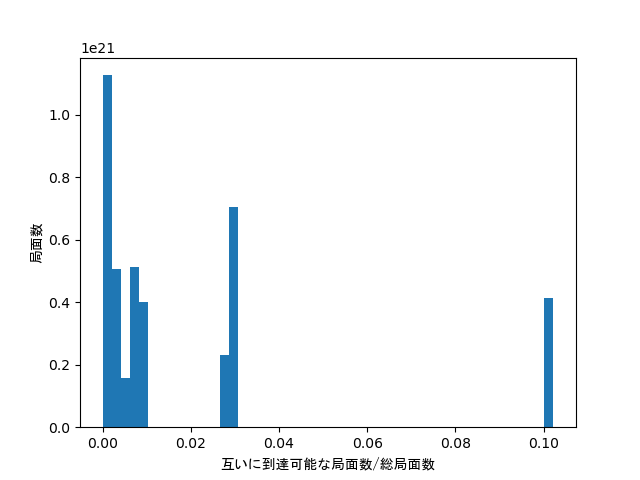
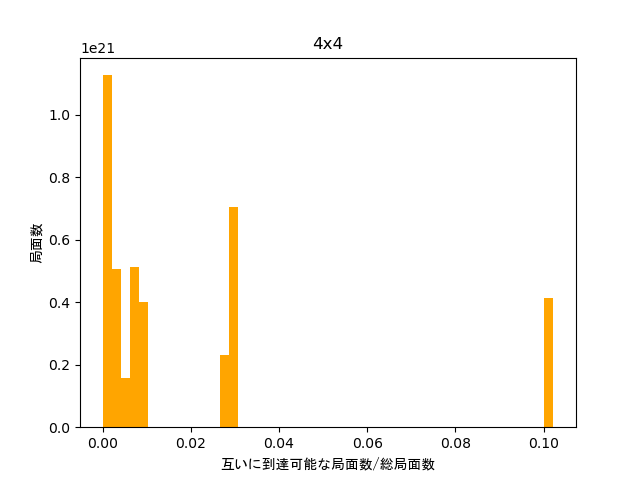
グラフの色を変更。統計情報の追加

diff --git a/python/possible_mutual_transition_phase.py b/python/possible_mutual_transition_phase.py
@@ -10,7 +10,7 @@ import matplotlib.pyplot as plt
 import math
 
 
-def main(s,f):
+def main(s,f, color=None, title=None):
     parent_parent = Path(__file__).resolve().parent.parent
     data = pd.read_csv(
         parent_parent.joinpath(Path(f"output/possible_transition_phase_p_{s}.csv")),
@@ -30,16 +30,35 @@ def main(s,f):
         index=False,
     )
 
-    print(f"possible_transition_phase_p_{s} count/sum(count)")
+    mn = min(df2)
+    mx = max(df2)
+    cnt = sum(df)
+    mean = sum([df2[i] * df[i] / cnt for i in range(len(df2))])
+    std = math.sqrt(
+        sum([(df2[i] - mean) ** 2 * df[i] / cnt for i in range(len(df2))])
+    )
+    crr = pd.Series(np.array([i/mx for i in df2],dtype=np.float64)).corr(pd.Series(np.array(df),dtype=np.float64))
+
+    print(f"possible_mutual_transition_phase_p_{s}")
     print()
-    print(df2.describe())
+    print("count", str(cnt).rjust(42))
+    print("mean", str(mean).rjust(43))
+    print("std", str(std).rjust(44))
+    print("min", str(mn).rjust(44))
+    print("max", str(mx).rjust(44))
+    print("corr", str(crr).rjust(43))
+
+    if title is not None:
+        plt.title(title)
+    else:
+        plt.title(s)
 
     plt.xlabel("互いに到達可能な局面数/総局面数", fontname="MS Gothic")
     plt.ylabel("局面数", fontname="MS Gothic")
-
+    
     if not f:
         plt.yscale("log")
-    plt.hist(df2, bins=50, weights=df)
+    plt.hist(df2, bins=50, weights=df, color=color)
 
     if not f:
         plt.savefig(parent_parent.joinpath(Path(f"output/possible_mutual_transition_phase_log_{s}.png")))
@@ -49,9 +68,9 @@ def main(s,f):
 
 
 if __name__ == "__main__":
-    main("3",True)
-    main("3",False)
-    main("4",True)
-    main("4",False)
+    main("3",True, color=None, title="3x3")
+    main("3",False, color=None, title="3x3")
+    main("4",True, color="orange", title="4x4")
+    main("4",False, color="orange", title="4x4")
     main("5_3_2",True)
     main("5_3_2",False)

diff --git a/python/possible_directional_transition_phase.py b/python/possible_directional_transition_phase.py
@@ -10,7 +10,7 @@ import matplotlib.pyplot as plt
 import math
 
 
-def main(s, f):
+def main(s, f, color=None, title=None):
     parent_parent = Path(__file__).resolve().parent.parent
     data = pd.read_csv(
         parent_parent.joinpath(Path(f"output/possible_transition_phase_p_{s}.csv")),
@@ -36,17 +36,36 @@ def main(s, f):
         ),
         index=False,
     )
+    
+    mn = min(df2)
+    mx = max(df2)
+    cnt = sum(df)
+    mean = sum([df2[i] * df[i] / cnt for i in range(len(df2))])
+    std = math.sqrt(
+        sum([(df2[i] - mean) ** 2 * df[i] / cnt for i in range(len(df2))])
+    )
+    crr = pd.Series(np.array([i/mx for i in df2],dtype=np.float64)).corr(pd.Series(np.array(df),dtype=np.float64))
 
-    print(f"possible_transition_phase_p_{s} proportion-count/sum(count)")
+    print(f"possible_directional_transition_phase_p_{s}")
     print()
-    print(df2.describe())
+    print("count", str(cnt).rjust(42))
+    print("mean", str(mean).rjust(43))
+    print("std", str(std).rjust(44))
+    print("min", str(mn).rjust(44))
+    print("max", str(mx).rjust(44))
+    print("corr", str(crr).rjust(43))
+
+    if title is not None:
+        plt.title(title)
+    else:
+        plt.title(s)
 
     plt.xlabel("戻ってこれないが到達可能な局面数/総局面数", fontname="MS Gothic")
     plt.ylabel("局面数", fontname="MS Gothic")
 
     if not f:
         plt.yscale("log")
-    plt.hist(df2, bins=50, weights=df)
+    plt.hist(df2, bins=50, weights=df, color=color)
 
     if not f:
         plt.savefig(
@@ -64,9 +83,9 @@ def main(s, f):
 
 
 if __name__ == "__main__":
-    main("3", True)
-    main("3", False)
-    main("4", True)
-    main("4", False)
+    main("3", True, color=None, title="3x3")
+    main("3", False, color=None, title="3x3")
+    main("4", True, color="orange", title="4x4")
+    main("4", False, color="orange", title="4x4")
     main("5_3_2", True)
     main("5_3_2", False)

diff --git a/python/possible_transition_phase_p.py b/python/possible_transition_phase_p.py
@@ -8,7 +8,7 @@ import matplotlib.pyplot as plt
 import math
 
 
-def main(s,f):
+def main(s, f, color=None, title=None):
     parent_parent = Path(__file__).resolve().parent.parent
     df = pd.read_csv(
         parent_parent.joinpath(Path(f"output/possible_transition_phase_p_{s}.csv")),
@@ -35,15 +35,15 @@ def main(s,f):
     print("mean", str(mean).rjust(43))
     print("std", str(std).rjust(44))
     print("min", str(mn).rjust(44))
-    #print("25%", str(f(p1,df[0])).rjust(34))
-    #print("50%", str(f(p2,df[0])).rjust(34))
-    #print("75%", str(f(p3,df[0])).rjust(34))
     print("max", str(mx).rjust(44))
     print("corr", str(crr).rjust(43))
 
 
-    plt.hist(df[0], bins=50, weights=df[1])
-    #plt.title("possible_transition_phase_p_4")
+    plt.hist(df[0], bins=50, weights=df[1], color=color)
+    if title is not None:
+        plt.title(title)
+    else:
+        plt.title(s)
     plt.xlabel("到達可能な局面数/総局面数", fontname="MS Gothic")
     plt.ylabel("局面数", fontname="MS Gothic")
     if f:
@@ -53,8 +53,11 @@ def main(s,f):
         plt.savefig(parent_parent.joinpath(Path(f"output/possible_transition_phase_p_log_{s}.png")))
     plt.show()
 
-    plt.scatter(df[0], df[1])
-    #plt.title("possible_transition_phase_p_plot_4")
+    plt.scatter(df[0], df[1], color=color)
+    if title is not None:
+        plt.title(title)
+    else:
+        plt.title(s)
     plt.xlabel("到達可能な局面数/総局面数", fontname="MS Gothic")
     plt.ylabel("局面数", fontname="MS Gothic")
     if f:
@@ -66,9 +69,9 @@ def main(s,f):
     plt.show()
 
 if __name__ == "__main__":
-    main("3",True)
-    main("3",False)
-    main("4",True)
-    main("4",False)
+    main("3",True, None,"3x3")
+    main("3",False, None,"3x3")
+    main("4",True, "orange","4x4")
+    main("4",False, "orange","4x4")
     main("5_3_2", True)
     main("5_3_2",False)

diff --git a/cpp/search.cpp b/cpp/search.cpp
@@ -1,7 +1,6 @@
 // count.cpp : アプリケーションのエントリ ポイントを定義します。
 //
 
-#define NDEBUG
 #include "forward.h"
 #include "cpp.h"
 

diff --git a/readme.md b/readme.md
@@ -1,6 +1,6 @@
 # Gobblet AI
 
-`Gobblet AI` is a code about min max method and analytics on transitions of positions of the board game `Gobblet`.
+`Gobblet AI` is a code about depth-first search and analytics on transitions of positions of the board game `Gobblet`.
 Const variables are defined in `cpp/forward.h`, main functions are defined in `cpp/search.cpp`, and these things are used in `cpp_test/search_test.cpp`.
 Python codes used to investigate statistics are in the `python` folder and the plots and csv files are in the `output` folder.
 Memos I wrote when developping are in `output/statistics.txt`.
